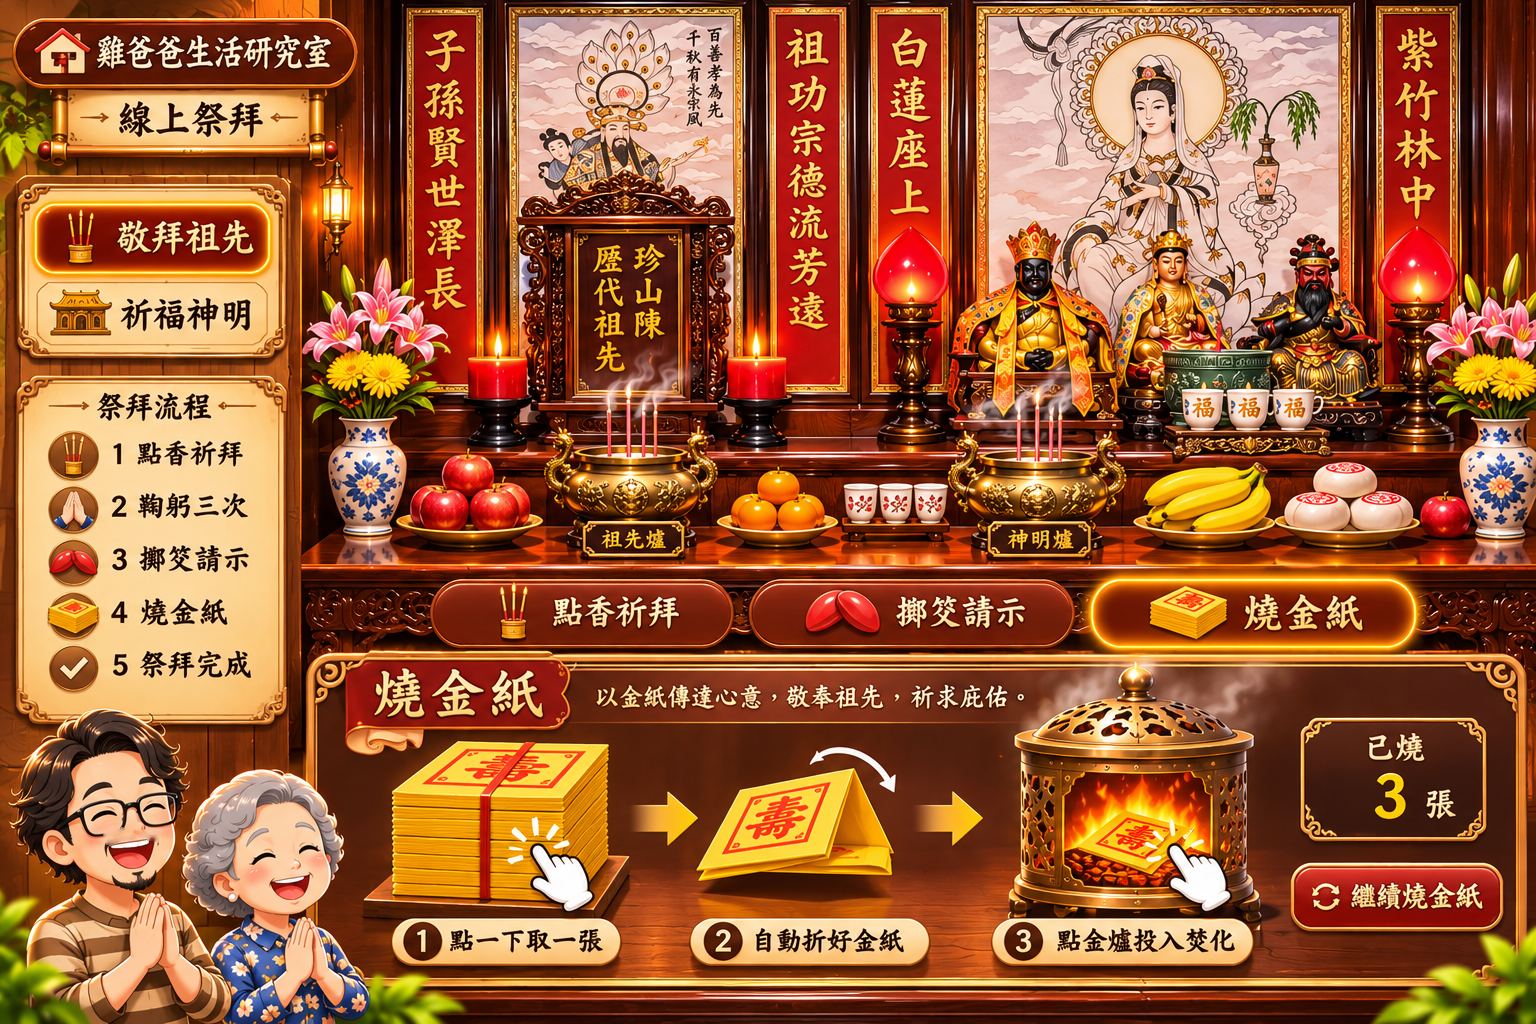
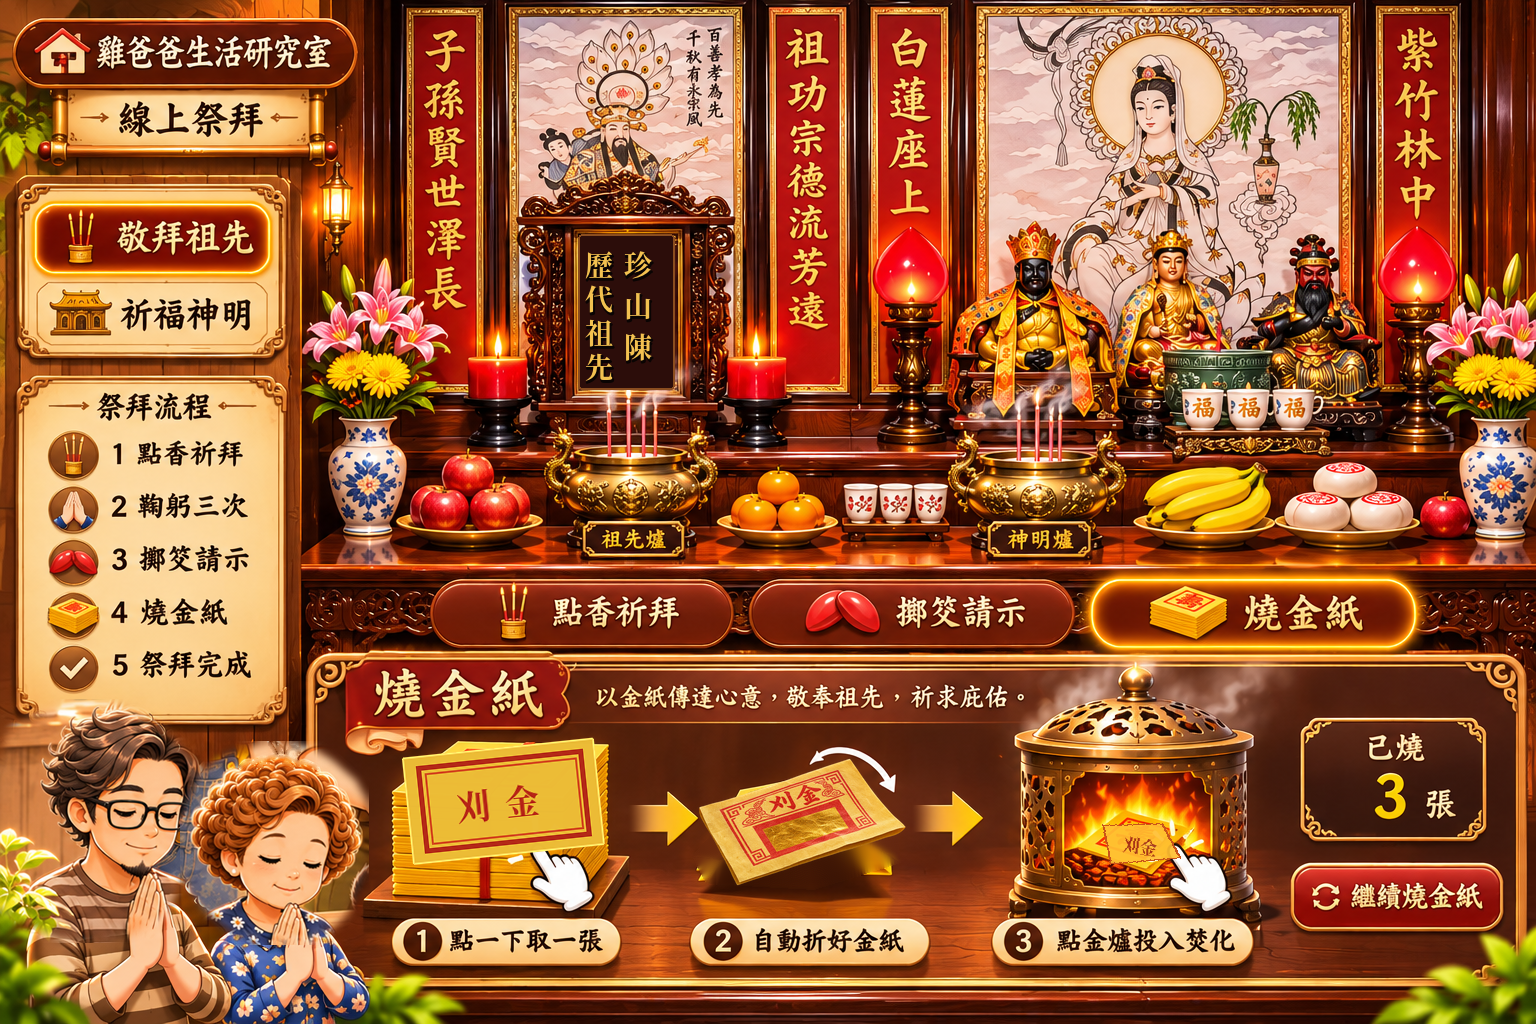
Add files via upload

diff --git a/客廳入口_一鍵產生videos.html b/客廳入口_一鍵產生videos.html
@@ -1,1 +1,1 @@
-<!doctype html><html lang="zh-Hant"><head><meta charset="utf-8"><meta name="viewport" content="width=device-width,initial-scale=1"><title>雞爸爸客廳祭拜入口安裝器</title><style>body{font-family:system-ui,"Noto Sans TC",sans-serif;max-width:640px;margin:40px auto;padding:20px;background:#f8f1e5;color:#3b2b20;line-height:1.8}main{background:white;padding:30px;border-radius:20px;box-shadow:0 7px 30px #7b56331c}button{font:700 18px system-ui;border:0;border-radius:12px;padding:15px 23px;background:#814b25;color:white;cursor:pointer;max-width:100%}p{margin:12px 0}a{color:#83461f}#status{white-space:pre-wrap;color:#5c3a20}code{background:#f9efd9;padding:3px 6px;border-radius:4px}</style></head><body><main><h1>雞爸爸客廳｜入口安裝器</h1><p>此工具會讀取 GitHub 公開的最新版 <code>videos.html</code>，保留原本客廳內容，再自動加入神桌與「點香祭拜」入口。</p><button id="do" type="button">產生可直接上傳的 videos.html</button><p id="status" role="status" aria-live="polite"></p><p>完成後，將下載的 <code>videos.html</code> 連同功能包內的 <code>worship/</code> 和 <code>js/worship-entry.js</code> 上傳 GitHub 儲存庫同名路徑即可。</p><p>注意：這個工具不會直接修改你的 GitHub；需要你在 GitHub 確認並上傳檔案。</p></main><script>document.getElementById('do').onclick=async()=>{const el=document.getElementById('status'),btn=document.getElementById('do');btn.disabled=true;el.textContent='正在讀取 GitHub 上的客廳原始檔…';try{const response=await fetch('https://raw.githubusercontent.com/beckman0470/beckman0470.github.io/main/videos.html?date='+Date.now(),{cache:'no-store'});if(!response.ok)throw Error('無法取得 GitHub 檔案（HTTP '+response.status+'）');let html=await response.text();if(!html.includes('</body>'))throw Error('找不到客廳頁面結尾，已取消');html=html.replace(/<script[^>]*src=[^>]*worship-entry\.js[^>]*><\/script>\s*/ig,'');html=html.replace('</body>','<script defer src="/js/worship-entry.js?v=20261117-v7"></'+'script></body>');const blob=new Blob([html],{type:'text/html;charset=utf-8'}),a=document.createElement('a'),url=URL.createObjectURL(blob);a.href=url;a.download='videos.html';document.body.append(a);a.click();a.remove();setTimeout(()=>URL.revokeObjectURL(url),2000);el.textContent='已產生 videos.html。接著與功能包內其他檔案一起上傳 GitHub。'}catch(e){el.textContent='產生失敗：'+e.message+'。你也可以直接在 GitHub 的 videos.html 結尾加入一行 script。'}finally{btn.disabled=false;}};</script></body></html>
+<!doctype html><html lang="zh-Hant"><head><meta charset="utf-8"><meta name="viewport" content="width=device-width,initial-scale=1"><title>雞爸爸客廳祭拜入口安裝器</title><style>body{font-family:system-ui,"Noto Sans TC",sans-serif;max-width:640px;margin:40px auto;padding:20px;background:#f8f1e5;color:#3b2b20;line-height:1.8}main{background:white;padding:30px;border-radius:20px;box-shadow:0 7px 30px #7b56331c}button{font:700 18px system-ui;border:0;border-radius:12px;padding:15px 23px;background:#814b25;color:white;cursor:pointer;max-width:100%}p{margin:12px 0}a{color:#83461f}#status{white-space:pre-wrap;color:#5c3a20}code{background:#f9efd9;padding:3px 6px;border-radius:4px}</style></head><body><main><h1>雞爸爸客廳｜入口安裝器</h1><p>此工具會讀取 GitHub 公開的最新版 <code>videos.html</code>，保留原本客廳內容，再自動加入神桌與「點香祭拜」入口。</p><button id="do" type="button">產生可直接上傳的 videos.html</button><p id="status" role="status" aria-live="polite"></p><p>完成後，將下載的 <code>videos.html</code> 連同功能包內的 <code>worship/</code> 和 <code>js/worship-entry.js</code> 上傳 GitHub 儲存庫同名路徑即可。</p><p>注意：這個工具不會直接修改你的 GitHub；需要你在 GitHub 確認並上傳檔案。</p></main><script>document.getElementById('do').onclick=async()=>{const el=document.getElementById('status'),btn=document.getElementById('do');btn.disabled=true;el.textContent='正在讀取 GitHub 上的客廳原始檔…';try{const response=await fetch('https://raw.githubusercontent.com/beckman0470/beckman0470.github.io/main/videos.html?date='+Date.now(),{cache:'no-store'});if(!response.ok)throw Error('無法取得 GitHub 檔案（HTTP '+response.status+'）');let html=await response.text();if(!html.includes('</body>'))throw Error('找不到客廳頁面結尾，已取消');html=html.replace(/<script[^>]*src=[^>]*worship-entry\.js[^>]*><\/script>\s*/ig,'');html=html.replace('</body>','<script defer src="/js/worship-entry.js?v=20261117-v8"></'+'script></body>');const blob=new Blob([html],{type:'text/html;charset=utf-8'}),a=document.createElement('a'),url=URL.createObjectURL(blob);a.href=url;a.download='videos.html';document.body.append(a);a.click();a.remove();setTimeout(()=>URL.revokeObjectURL(url),2000);el.textContent='已產生 videos.html。接著與功能包內其他檔案一起上傳 GitHub。'}catch(e){el.textContent='產生失敗：'+e.message+'。你也可以直接在 GitHub 的 videos.html 結尾加入一行 script。'}finally{btn.disabled=false;}};</script></body></html>

diff --git a/worship/index.html b/worship/index.html
@@ -260,7 +260,7 @@ button:disabled{cursor:not-allowed;opacity:.52}
 </style>
 </head>
 <body>
-<header><h1>雞爸爸生活研究室・線上祭拜</h1><p>v7｜側後方持香三拜・雙手合筊擲出・擲筊彈跳・神桌入口</p></header>
+<header><h1>雞爸爸生活研究室・線上祭拜</h1><p>v8｜人物莊嚴校正・祖先牌位正字・真實刈金對折示意・持香三拜</p></header>
 <main>
  <nav class="return-living" aria-label="返回客廳" style="text-align:right;margin-top:7px"><a href="/videos.html" style="color:#f5d18c;text-decoration:underline;text-underline-offset:4px">返回雞爸爸客廳</a></nav>
  <div class="scene" aria-label="以雞爸爸指定圖片為固定背景的線上祭拜操作畫面">

diff --git a/install_entry.py b/install_entry.py
@@ -5,6 +5,6 @@ p=Path('videos.html')
 s=p.read_text(encoding='utf-8-sig')
 s=re.sub(r'<script[^>]*src=["\']/js/worship-entry\.js[^>]*></script>\s*','',s,flags=re.I)
 assert '</body>' in s
-s=s.replace('</body>','<script defer src="/js/worship-entry.js?v=20261117-v7"></script>\n</body>',1)
+s=s.replace('</body>','<script defer src="/js/worship-entry.js?v=20261117-v8"></script>\n</body>',1)
 p.write_text(s,encoding='utf8')
 print('已修正客廳入口。')
